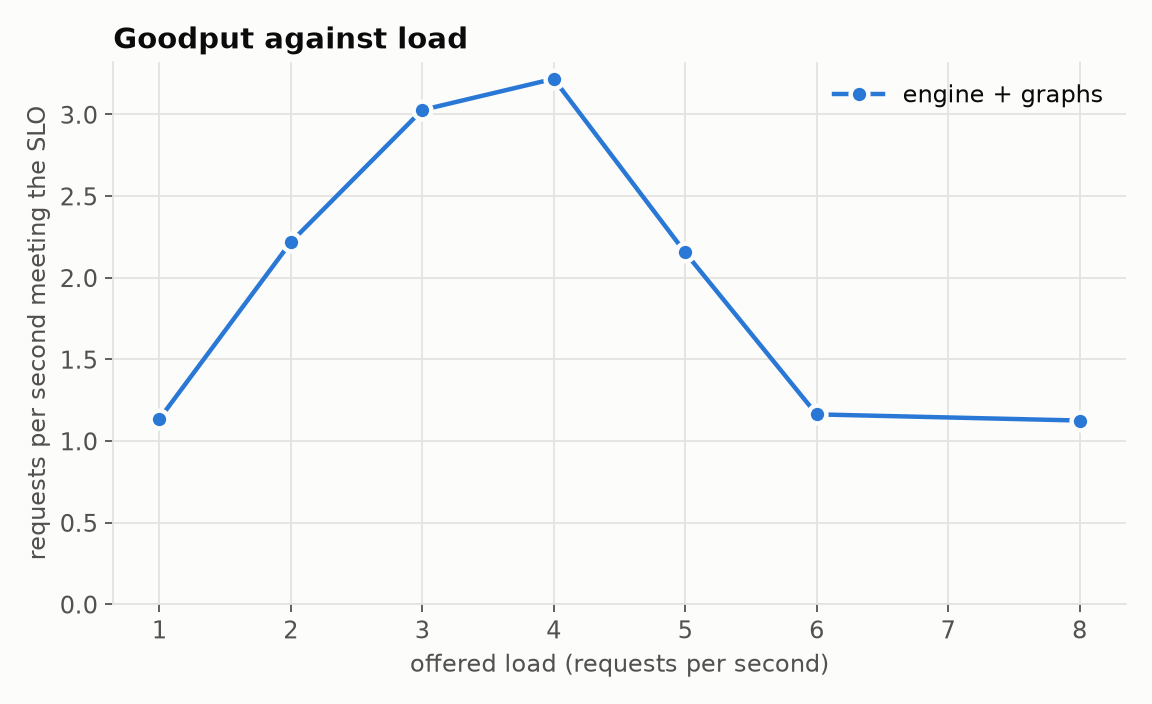
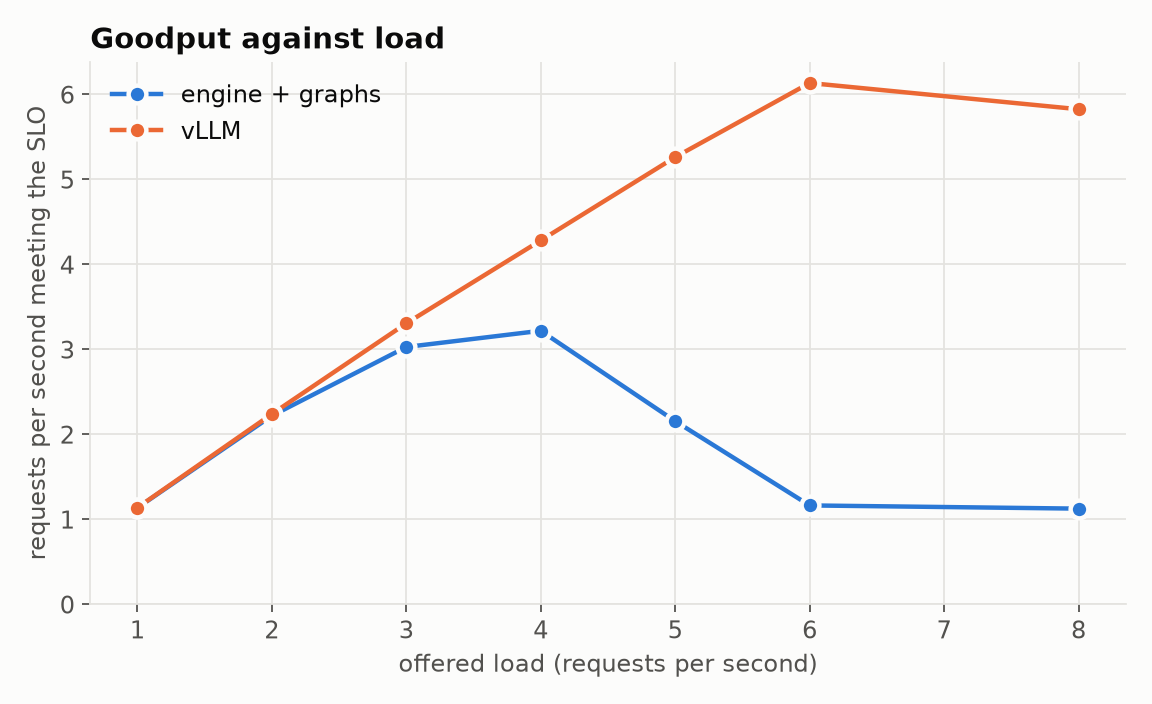
Add vLLM to the QPS sweep on the results page

diff --git a/docs/results.md b/docs/results.md
@@ -90,9 +90,18 @@ SLO: TTFT at most 500 ms and TPOT at most 50 ms; goodput is the requests per sec
 | engine + graphs | 5 | 667 | 591 | 3328 | 19.7 | 25.8 | 48% | 2.15 | 0 | 3 |
 | engine + graphs | 6 | 685 | 1522 | 5973 | 19.8 | 25.8 | 25% | 1.16 | 0 | 3 |
 | engine + graphs | 8 | 710 | 3027 | 9389 | 20.1 | 25.4 | 23% | 1.13 | 0 | 3 |
+| vLLM | 1 | 167 | 46 | 103 | 8.9 | 10.5 | 100% | 1.14 | 0 | 3 |
+| vLLM | 2 | 329 | 29 | 39 | 8.8 | 10.4 | 100% | 2.24 | 0 | 3 |
+| vLLM | 3 | 486 | 32 | 45 | 9.1 | 11.1 | 100% | 3.31 | 0 | 3 |
+| vLLM | 4 | 630 | 33 | 43 | 10.4 | 11.4 | 100% | 4.28 | 0 | 3 |
+| vLLM | 5 | 774 | 35 | 194 | 10.5 | 11.2 | 100% | 5.26 | 0 | 3 |
+| vLLM | 6 | 912 | 36 | 480 | 10.6 | 11.4 | 99% | 6.13 | 0 | 3 |
+| vLLM | 8 | 1105 | 42 | 1010 | 10.9 | 11.4 | 78% | 5.83 | 0 | 3 |
 <!-- /auto:load -->
 
-Goodput peaks at 3.2 requests per second at an offered 4, then falls: past that the queue grows faster than it drains, so most requests miss the 500 ms TTFT limit. TPOT does not cause the misses. Its p99 stays at or under 26 ms at every rate, about half the 50 ms limit, and TTFT p99 is what crosses the limit, between 2 and 3 QPS. Output throughput levels off near 700 tokens/s, about half of the 1,402 of the offline batch-16 run, on a workload with longer prompts, longer contexts and 115 prefill steps in a run; this sweep does not separate how much each of those costs. The KV cache was never the limit: the peak was 455 of 12,915 blocks, with 0 preemptions at every rate.
+vLLM 0.32.0 on the same token ids, arrival times, GPU and limit of 16 sequences is well ahead on this workload (`docs/baselines.md`, which lists what differs): its goodput reaches 6.1 requests per second at an offered 6, about 1.9x the engine's 3.2, and its TPOT p50 stays between 8.8 and 10.9 ms where the engine's climbs from 11.0 to 20.1 ms, even though vLLM's times include a Python server and HTTP and the engine's do not. At an offered 4 its TTFT p99 is 43 ms against the engine's 1,653 ms. The likely reason is that vLLM mixes prefill chunks into decode steps while the engine's prefills stop every running decode, but that has not been measured on its own. Against llama.cpp the engine leads on the offline workload above; this offline lead says nothing about serving under load.
+
+The engine's goodput peaks at 3.2 requests per second at an offered 4, then falls: past that the queue grows faster than it drains, so most requests miss the 500 ms TTFT limit. TPOT does not cause the misses. Its p99 stays at or under 26 ms at every rate, about half the 50 ms limit, and TTFT p99 is what crosses the limit, between 2 and 3 QPS. Output throughput levels off near 700 tokens/s, about half of the 1,402 of the offline batch-16 run, on a workload with longer prompts, longer contexts and 115 prefill steps in a run; this sweep does not separate how much each of those costs. The KV cache was never the limit: the peak was 455 of 12,915 blocks, with 0 preemptions at every rate.
 
 Limits of these numbers. The lengths are uniform, not a real chat distribution such as ShareGPT, and the tokens are random. There is no HTTP in the path, since `engine bench` calls the scheduler directly. With 120 requests a run ends before an overloaded queue reaches any steady state, so TTFT past saturation depends on the run length: read those points as "overloaded", not as stable values. Goodput at 1 and 2 QPS is above the offered rate because this seed's 120 arrivals span about 104 and 52 seconds rather than 120 and 60, so these runs carry slightly more load than their label. The whole sweep was run twice: the first run was discarded because 2 of its 21 runs took more than twice as long as their repeats while other work was running on the machine, and the numbers here come from the second, where repeats agree closely.
 

diff --git a/docs/baselines.md b/docs/baselines.md
@@ -54,9 +54,9 @@ The server runs as `vllm serve models/tinyllama --dtype bfloat16 --max-num-seqs 
 Comparability: the same BF16 weights (the script stops if the server's log reports another dtype), the same token ids, arrival times and output lengths, the same GPU, and the same limit of 16 concurrent sequences as `engine bench --max-batch 16`. What differs:
 
 - **HTTP and Python:** every vLLM token goes through a Python server, HTTP and the Python client, and its times are taken in the client. `engine bench` has no HTTP and times requests inside the process, so this overhead counts only against vLLM.
-- **Attention:** vLLM picks its `FLASH_ATTN` backend (FlashAttention 2) here, not FlashInfer, which it uses only for sampling. Decode runs from its own `torch.compile` and CUDA Graph capture, which added about 80 s to the first start.
+- **Attention:** vLLM picks its `FLASH_ATTN` backend (FlashAttention 2) here, not FlashInfer, which it uses only for sampling. Decode runs from its own `torch.compile` and CUDA Graph capture, which made the first start take more than 5 minutes (later starts reuse the compile cache).
 - **Prefill and decode:** vLLM's default chunked prefill mixes prefill and decode in one step with a budget of 2,048 tokens per step on this GPU (its server default), while the engine's steps are all prefill or all decode.
-- **Sampling:** vLLM samples on its own path in a Python step loop; the engine samples on the GPU with its own kernel.
+- **Sampling:** both are greedy, but each uses its own code path; the engine's is its GPU sampling kernel.
 - **Memory:** neither system is short of KV space (0 preemptions in vLLM's runs): vLLM's cache holds 153,888 tokens at 70% of the VRAM.
 - **The limit of 16:** this matches the engine's run but is not vLLM's default for this GPU (128 sequences for the server), so these curves do not show what vLLM does with more concurrency. A sweep of both systems past 16 would be the fairer test at high rates.
 

diff --git a/changelog.md b/changelog.md
@@ -4,6 +4,7 @@ Changes are grouped by branch, newest first, in the order the branches merge int
 
 ## bench/vllm-baseline
 
+- Add vLLM to the QPS sweep in `docs/results.md` and its three plots: goodput 6.1 requests per second against the engine's 3.2, with TPOT p50 of 8.8 to 10.9 ms against 11.0 to 20.1 ms. The cause is not measured separately. Correct two lines of the vLLM section in `docs/baselines.md` as well. (Part A)
 - Add a vLLM section to `docs/baselines.md`: the command, the server flags, what is and is not comparable with `engine bench`, and the measured table. (Part A)
 - Record three runs of vLLM 0.32.0 at 1 to 8 requests per second in `results/load/`, on the RTX 5060 Laptop GPU. (Part A)
 - Add an optional vLLM section to `scripts/reproduce.sh`, with `--skip-vllm` and `VLLM_PYTHON`; skipped when `scripts/setup_vllm.sh` has not run. (Part A)

diff --git a/results/load/load_table.md b/results/load/load_table.md
@@ -9,3 +9,10 @@ SLO: TTFT at most 500 ms and TPOT at most 50 ms; goodput is the requests per sec
 | engine + graphs | 5 | 667 | 591 | 3328 | 19.7 | 25.8 | 48% | 2.15 | 0 | 3 |
 | engine + graphs | 6 | 685 | 1522 | 5973 | 19.8 | 25.8 | 25% | 1.16 | 0 | 3 |
 | engine + graphs | 8 | 710 | 3027 | 9389 | 20.1 | 25.4 | 23% | 1.13 | 0 | 3 |
+| vLLM | 1 | 167 | 46 | 103 | 8.9 | 10.5 | 100% | 1.14 | 0 | 3 |
+| vLLM | 2 | 329 | 29 | 39 | 8.8 | 10.4 | 100% | 2.24 | 0 | 3 |
+| vLLM | 3 | 486 | 32 | 45 | 9.1 | 11.1 | 100% | 3.31 | 0 | 3 |
+| vLLM | 4 | 630 | 33 | 43 | 10.4 | 11.4 | 100% | 4.28 | 0 | 3 |
+| vLLM | 5 | 774 | 35 | 194 | 10.5 | 11.2 | 100% | 5.26 | 0 | 3 |
+| vLLM | 6 | 912 | 36 | 480 | 10.6 | 11.4 | 99% | 6.13 | 0 | 3 |
+| vLLM | 8 | 1105 | 42 | 1010 | 10.9 | 11.4 | 78% | 5.83 | 0 | 3 |

diff --git a/docs/exercises/learning_log.md b/docs/exercises/learning_log.md
@@ -1540,3 +1540,4 @@
 - **continuous usage stats: counting streamed tokens without trusting chunks** => 
 - **chunked prefill: mixing prefill and decode in one step** => 
 - **FlashAttention 2 against FlashInfer: two decode attention backends** => 
+- **goodput at an SLO: why throughput alone hides missed deadlines** => 
